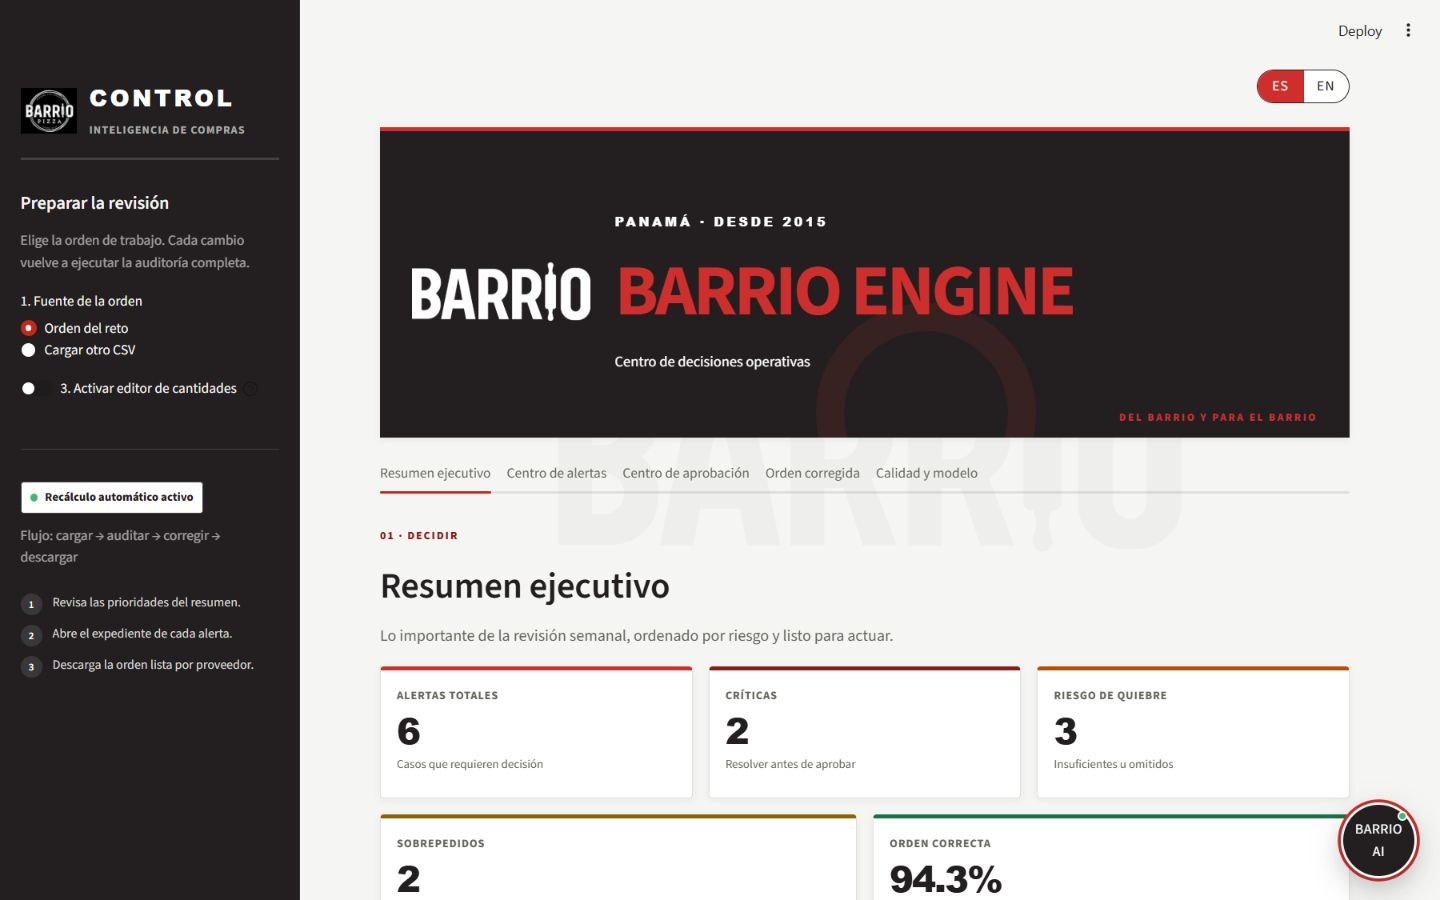
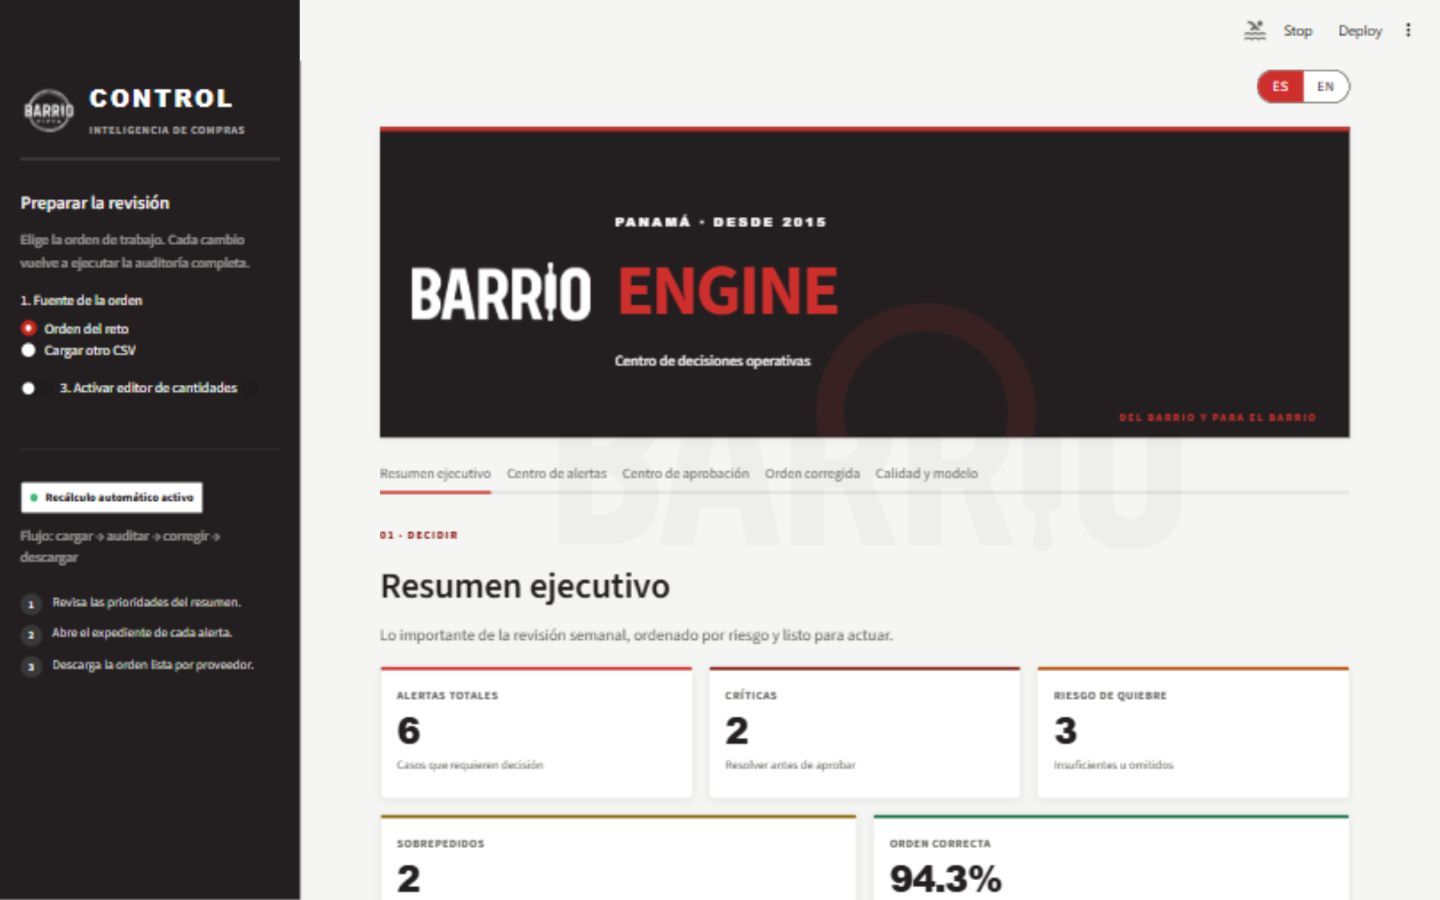
fix: polish Barrio Engine branding and actions

diff --git a/assets/styles.css b/assets/styles.css
@@ -765,6 +765,20 @@ div[data-testid="stVerticalBlockBorderWrapper"] {
   color: #fff !important;
 }
 
+[data-testid="stFormSubmitButton"] button[kind="primary"],
+[data-testid="stFormSubmitButton"] button[data-testid="stBaseButton-primary"],
+button[data-testid="stBaseButton-primaryFormSubmit"],
+button[data-testid="stBaseButton-primary"] {
+  color: #fff !important;
+}
+
+[data-testid="stFormSubmitButton"] button[kind="primary"] *,
+[data-testid="stFormSubmitButton"] button[data-testid="stBaseButton-primary"] *,
+button[data-testid="stBaseButton-primaryFormSubmit"] *,
+button[data-testid="stBaseButton-primary"] * {
+  color: #fff !important;
+}
+
 button:focus-visible,
 input:focus-visible,
 textarea:focus-visible,

diff --git a/app.py b/app.py
@@ -422,7 +422,7 @@ def _encabezado_producto(
             <img class="bp-header-logo" src="{logo}" alt="Barrio Pizza">
             <div>
               <div class="bp-wordmark">{_texto('Panamá · Desde 2015', 'Panama · Since 2015')}</div>
-              <h1>BARRIO <span>ENGINE</span></h1>
+              <h1>ENGINE</h1>
               <p>{_texto('Centro de decisiones operativas', 'Operational decision center')}</p>
             </div>
           </div>
